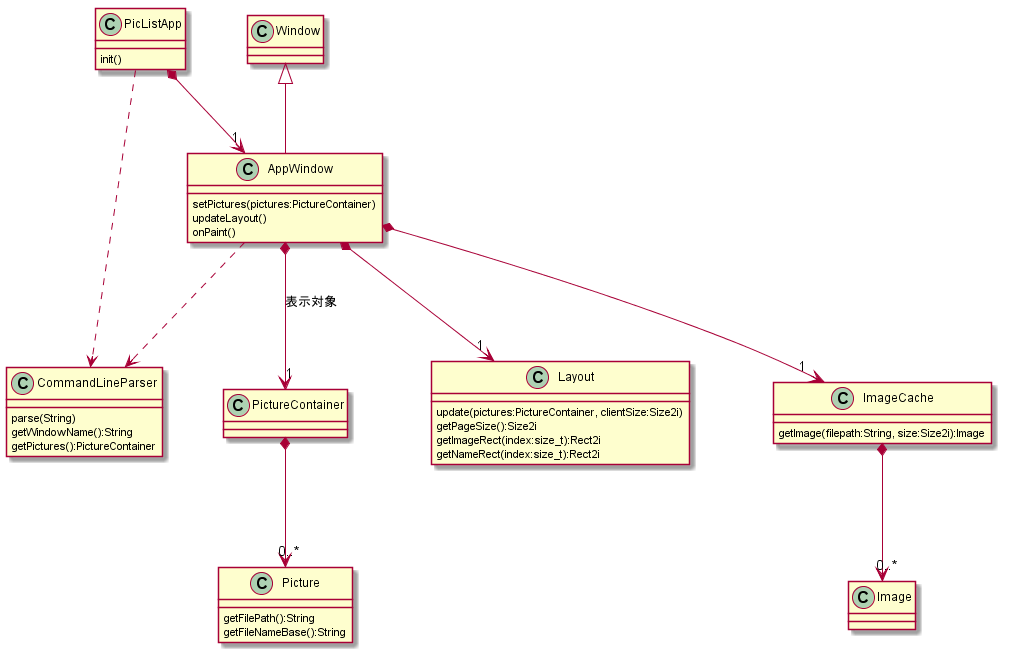
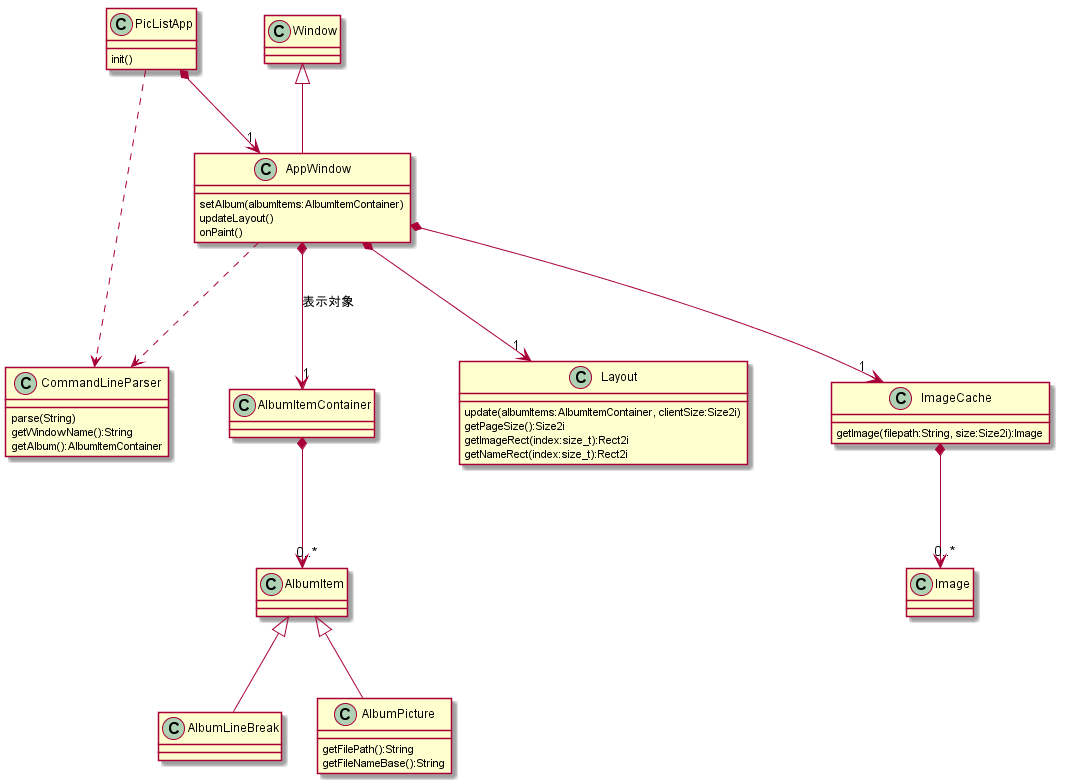
PictureクラスをAlbumItem、AlbumLineBreak、AlbumPictureの三つに分割した。

diff --git a/src/AppWindow.cpp b/src/AppWindow.cpp
@@ -54,38 +54,38 @@ void AppWindow::onPaint(HDC hdc)
 	stringFormat.SetLineAlignment(Gdiplus::StringAlignmentCenter);
 
 	// draw cells
-	const std::size_t pictureCount = pictures_.size();
-	for(std::size_t index = 0; index < pictureCount; ++index){
-		const Picture &pic = pictures_[index];
+	const std::size_t itemCount = albumItems_.size();
+	for(std::size_t index = 0; index < itemCount; ++index){
+		const AlbumItemPtr &item = albumItems_[index];
 
-		if(pic.isLineBreak()){
-			continue;
+		if(const AlbumPicture * const pic = dynamic_cast<AlbumPicture *>(item.get())){
+
+			// image.
+			if(ImagePtr im = imageCache_.getImage(pic->getFilePath(), Size2i(layout_.getImageWidth(), layout_.getImageHeight()))){
+				const double srcW = im->getWidth();
+				const double srcH = im->getHeight();
+				const Rect2i cellImageRect = layout_.getImageRect(index);
+				const double scale = min(cellImageRect.getWidth() / srcW, cellImageRect.getHeight() / srcH);
+				const int dstW = static_cast<int>(srcW * scale);
+				const int dstH = static_cast<int>(srcH * scale);
+				graphics.DrawImage(
+					im->getGdiPlusImage(),
+					cellImageRect.left + (cellImageRect.getWidth() - dstW) / 2,
+					cellImageRect.top + (cellImageRect.getHeight() - dstH) / 2,
+					dstW,
+					dstH);
+			}
+
+			// name.
+			const Rect2i cellNameRect = layout_.getNameRect(index);
+			Gdiplus::RectF nameRect(
+				static_cast<Gdiplus::REAL>(cellNameRect.left),
+				static_cast<Gdiplus::REAL>(cellNameRect.top),
+				static_cast<Gdiplus::REAL>(cellNameRect.getWidth()),
+				static_cast<Gdiplus::REAL>(cellNameRect.getHeight()));
+			graphics.DrawString(pic->getFileNameBase().c_str(), -1, &font, nameRect, &stringFormat, &textBrush);
+
 		}
-
-		// image.
-		if(ImagePtr im = imageCache_.getImage(pic.getFilePath(), Size2i(layout_.getImageWidth(), layout_.getImageHeight()))){
-			const double srcW = im->getWidth();
-			const double srcH = im->getHeight();
-			const Rect2i cellImageRect = layout_.getImageRect(index);
-			const double scale = min(cellImageRect.getWidth() / srcW, cellImageRect.getHeight() / srcH);
-			const int dstW = static_cast<int>(srcW * scale);
-			const int dstH = static_cast<int>(srcH * scale);
-			graphics.DrawImage(
-				im->getGdiPlusImage(),
-				cellImageRect.left + (cellImageRect.getWidth() - dstW) / 2,
-				cellImageRect.top + (cellImageRect.getHeight() - dstH) / 2,
-				dstW,
-				dstH);
-		}
-
-		// name.
-		const Rect2i cellNameRect = layout_.getNameRect(index);
-		Gdiplus::RectF nameRect(
-			static_cast<Gdiplus::REAL>(cellNameRect.left),
-			static_cast<Gdiplus::REAL>(cellNameRect.top),
-			static_cast<Gdiplus::REAL>(cellNameRect.getWidth()),
-			static_cast<Gdiplus::REAL>(cellNameRect.getHeight()));
-		graphics.DrawString(pic.getFileNameBase().c_str(), -1, &font, nameRect, &stringFormat, &textBrush);
 	}
 }
 
@@ -119,26 +119,25 @@ void AppWindow::onCopyData(HWND srcwnd, ULONG_PTR dwData, DWORD cbData, PVOID lp
 	const int lenCurrentDir = lstrlen(currentDir);
 	const TCHAR * const cmdlineStr = currentDir + lenCurrentDir + 1;
 
-	const String currentDirOld = getCurrentDirectory();
-	setCurrentDirectory(currentDir);
+	{
+		ScopedCurrentDirectory cd(currentDir);
 
-	CommandLineParser cmdline;
-	cmdline.parse(cmdlineStr);
+		CommandLineParser cmdline;
+		cmdline.parse(cmdlineStr);
 
-	setPictures(cmdline.getPictures());
-
-	setCurrentDirectory(currentDirOld);
+		setAlbum(cmdline.getAlbum());
+	}
 }
 
 void AppWindow::updateLayout(void)
 {
 	const Size2i clientSize1 = getClientSize();
-	layout_.update(pictures_, clientSize1);
+	layout_.update(albumItems_, clientSize1);
 
 	setVScrollBarVisible(layout_.getPageSize().h > clientSize1.h);
 
 	const Size2i clientSize2 = getClientSize();
-	layout_.update(pictures_, clientSize2);
+	layout_.update(albumItems_, clientSize2);
 
 	setVScrollRange(0, layout_.getPageSize().h);
 	setVScrollVisibleAmount(clientSize2.h);

diff --git a/src/CommandLine.cpp b/src/CommandLine.cpp
@@ -1,4 +1,5 @@
 #include <algorithm>
+#include <iterator>
 #include <Windows.h>
 #include <tchar.h>
 #include "File.h"
@@ -106,6 +107,7 @@ CommandLineParser::CommandLineParser()
 void CommandLineParser::parse(const String::value_type *cmdLineStr)
 {
 	std::vector<String> args = splitCmdLineArgs(cmdLineStr);
+
 	if(args.size() > 1){
 		for(std::vector<String>::const_iterator it = args.begin() + 1, itEnd = args.end(); it != itEnd; ++it){
 			const String &arg = *it;
@@ -117,37 +119,22 @@ void CommandLineParser::parse(const String::value_type *cmdLineStr)
 					}
 				}
 				else if(arg == _T("-br")){
-					files_.push_back(Picture::getLineBreakFilePath());
+					albumItems_.push_back(AlbumLineBreak::create());
 				}
 				else{
 					//unknown
 				}
 			}
 			else{
-				files_.push_back(arg);
+				std::vector<String> files;
+				for(FileEnumerator fe(arg); fe.valid(); fe.increment()){
+					files.push_back(fe.getEntryFilePath());
+				}
+				std::sort(files.begin(), files.end());
+				std::transform(files.begin(), files.end(), std::back_inserter(albumItems_), &AlbumPicture::create);
 			}
 		}
 	}
 }
-
-PictureContainer CommandLineParser::getPictures() const
-{
-	PictureContainer pictures;
-	for(std::vector<String>::const_iterator it = files_.begin(), itEnd = files_.end(); it != itEnd; ++it){
-		if(*it == Picture::getLineBreakFilePath()){
-			pictures.push_back(Picture::createLineBreak());
-		}
-		else{
-			PictureContainer subPics;
-			for(FileEnumerator fe(*it); fe.valid(); fe.increment()){
-				subPics.push_back(Picture(fe.getEntryFilePath()));
-			}
-			std::sort(subPics.begin(), subPics.end(), Picture::LessFilePath());
-			pictures.insert(pictures.end(), subPics.begin(), subPics.end());
-		}
-	}
-	return pictures;
-}
-
 
 }//namespace piclist

diff --git a/src/AppWindow.h b/src/AppWindow.h
@@ -16,7 +16,7 @@ namespace piclist{
 	class AppWindow : public Window
 	{
 		const String windowName_;
-		PictureContainer pictures_;
+		AlbumItemContainer albumItems_;
 		ImageCache imageCache_;
 		Layout layout_;
 
@@ -25,7 +25,7 @@ namespace piclist{
 		virtual ~AppWindow();
 
 		bool restoreWindowPlacement();
-		void setPictures(const PictureContainer &pics) { pictures_ = pics; updateLayout();}
+		void setAlbum(const AlbumItemContainer &items) { albumItems_ = items; updateLayout();}
 		void updateLayout();
 
 	private:

diff --git a/src/CommandLine.h b/src/CommandLine.h
@@ -10,13 +10,13 @@ namespace piclist{
 class CommandLineParser
 {
 	String windowName_;
-	std::vector<String> files_;
+	AlbumItemContainer albumItems_;
 public:
 	CommandLineParser();
 	void parse(const String::value_type *cmdLineStr);
 
 	const String &getWindowName() const { return windowName_;}
-	PictureContainer getPictures() const;
+	AlbumItemContainer getAlbum() const { return albumItems_;}
 };
 
 }//namespace piclist

diff --git a/src/main.cpp b/src/main.cpp
@@ -71,7 +71,7 @@ public:
 		}
 		window_->setCaption(windowCaption);
 
-		window_->setPictures(cmdline.getPictures());
+		window_->setAlbum(cmdline.getAlbum());
 
 		if(!window_->restoreWindowPlacement()){
 			window_->showWindow(nCmdShow);
